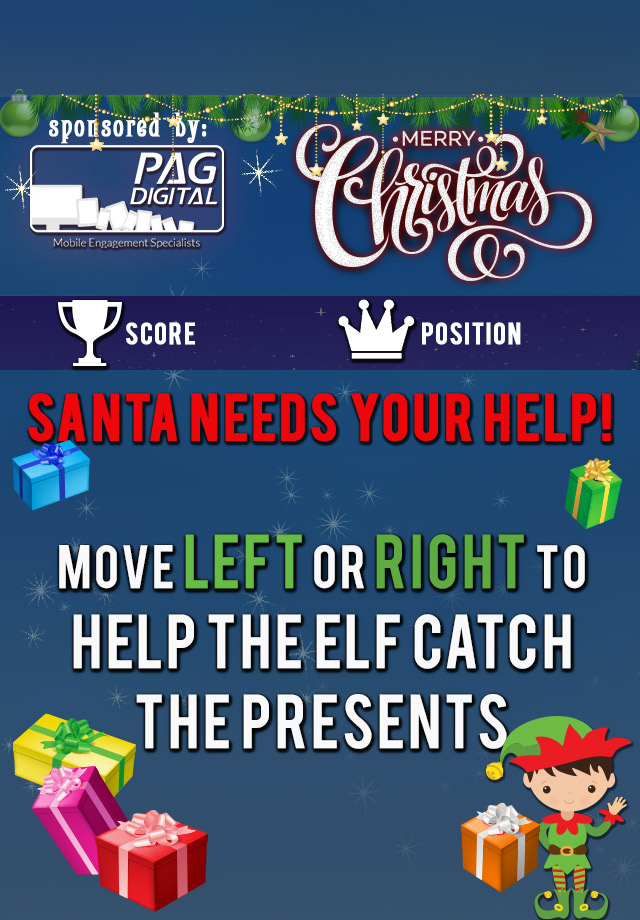
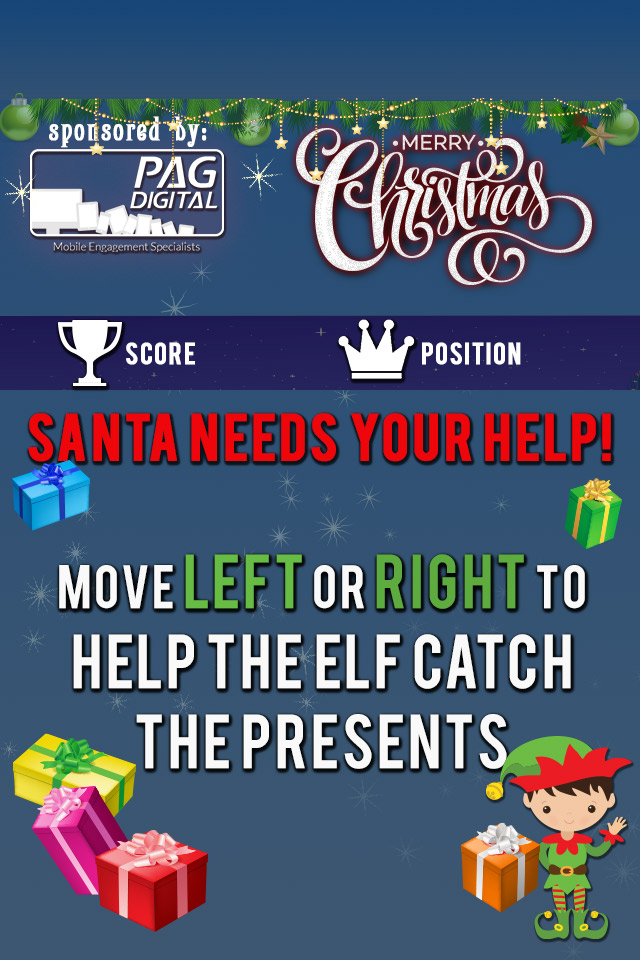
changed size of game

Changed region(s): [[0.0, 0.0913, 1.0, 1.0], [0.7812, 0.5174, 0.8125, 0.5478]]

diff --git a/PaperToss.Web/Assets/css/home.css b/PaperToss.Web/Assets/css/home.css
@@ -56,7 +56,7 @@ html, body {
     -webkit-transform-origin: center top;
     transform-origin: center top;
     width: 640px;
-    height: 920px;
+    height: 960px;
 	background-color: #fff;
     background: url('../images/Home.jpg') no-repeat;
     background-size: contain;

diff --git a/PaperToss.Web/Assets/css/result.css b/PaperToss.Web/Assets/css/result.css
@@ -49,7 +49,7 @@ html, body {
     -webkit-transform-origin: center top;
     transform-origin: center top;
     width: 640px;
-    height: 920px;
+    height: 960px;
 	overflow: hidden;
     background: url('../images/Results.jpg') no-repeat;
     background-size: contain;

diff --git a/PaperToss.Web/Assets/css/style.css b/PaperToss.Web/Assets/css/style.css
@@ -25,7 +25,7 @@
     -webkit-transform-origin: center top;
     transform-origin: center top;
     width: 640px;
-    height: 920px;
+    height: 960px;
 	background-color: #fff;
 	background: url('../images/background.jpg') no-repeat;
 	background-size: contain;

diff --git a/PaperToss.Web/Assets/js/resize.js b/PaperToss.Web/Assets/js/resize.js
@@ -2,7 +2,7 @@
 
 $(function () {
     var $window = $(window),
-        viewAreaHeight = 920,
+        viewAreaHeight = 960,
         viewAreaWidth = 640,
         $content = $('#wrapper');
        
